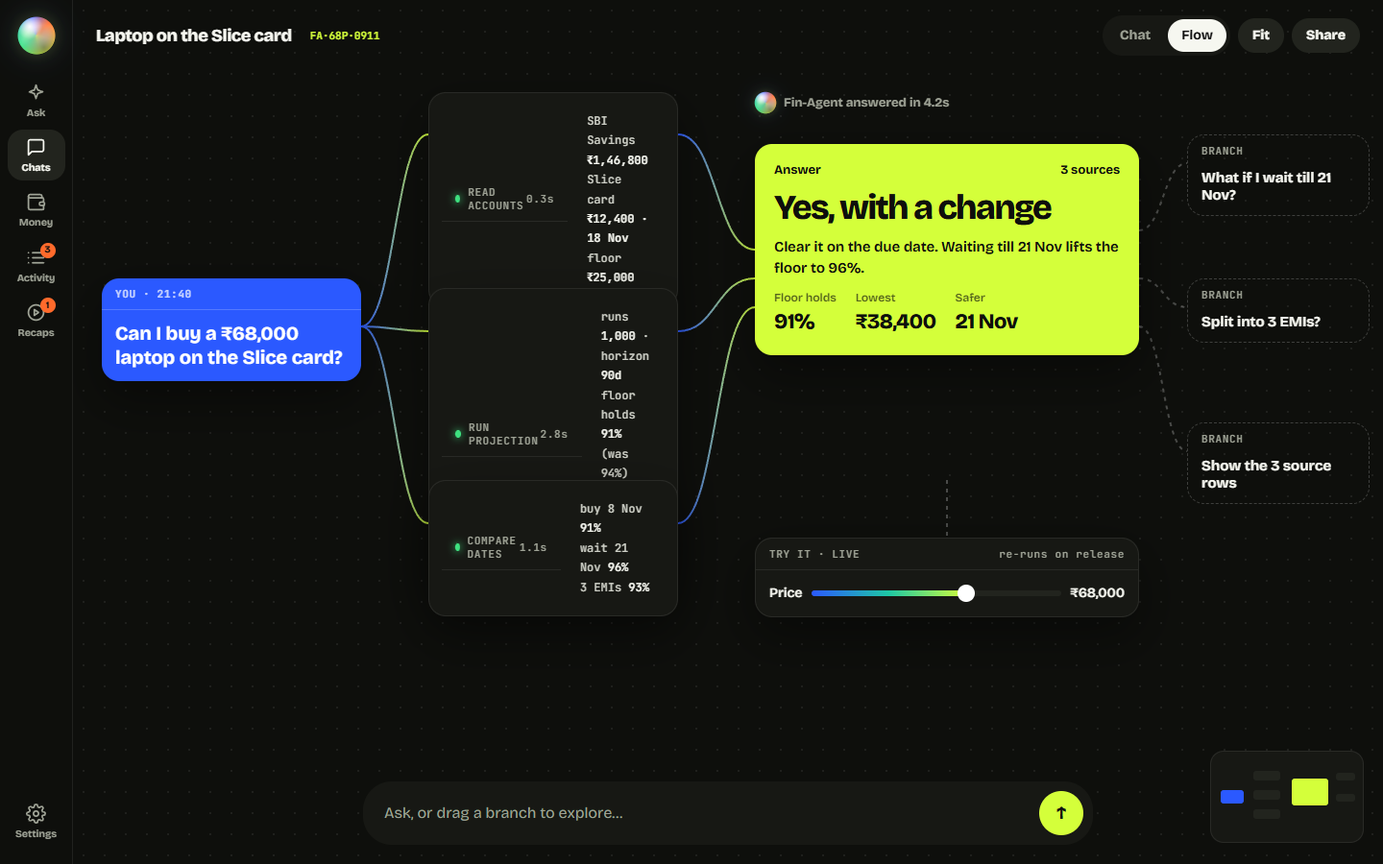
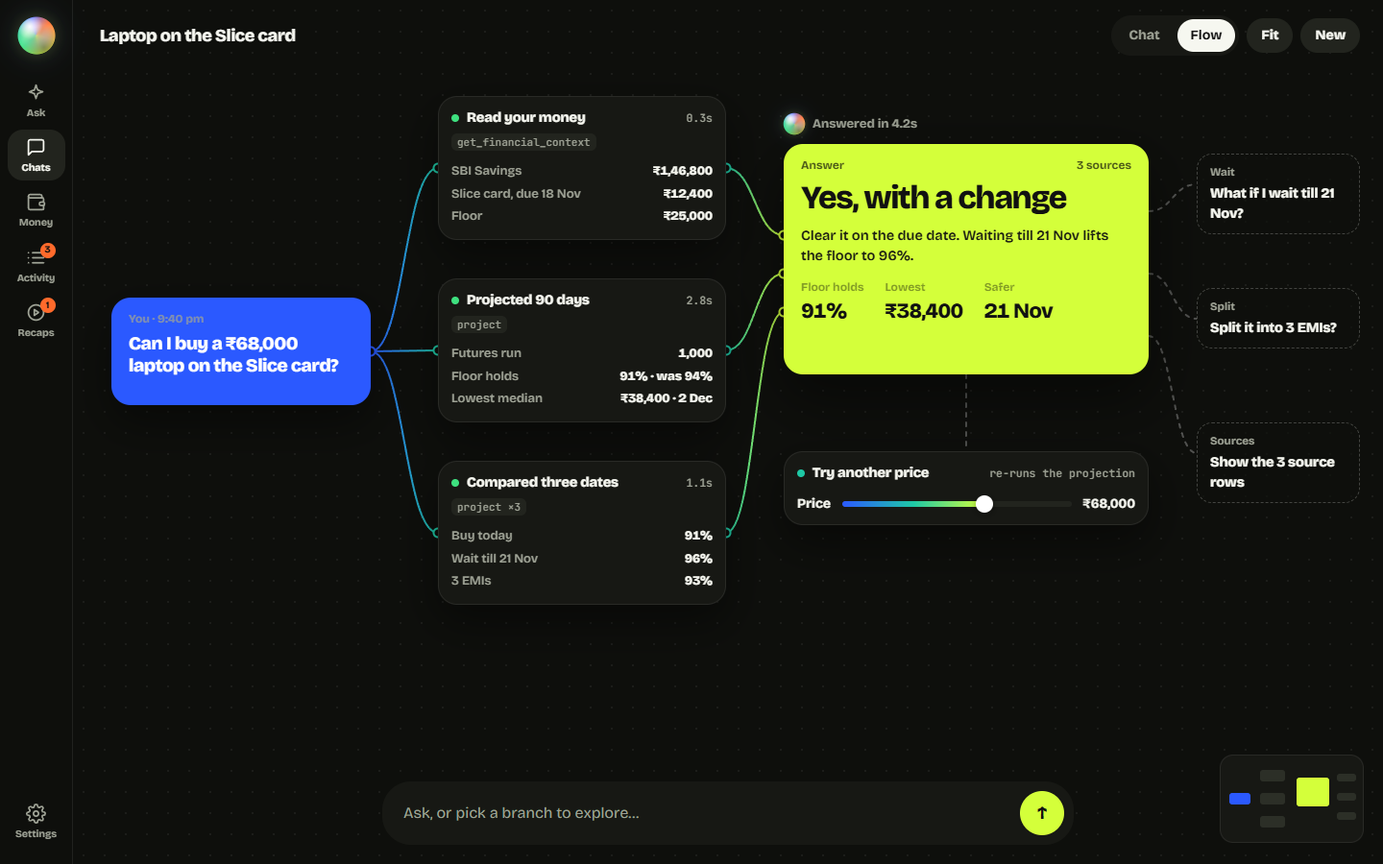
docs(design): redraw Flow mode with readable steps and a whole conversation

diff --git a/.impeccable/mocks/final/03-flow.html b/.impeccable/mocks/final/03-flow.html
@@ -1,45 +1,77 @@
-<!doctype html><html lang="en"><head><meta charset="utf-8"><title>03 · Flow mode</title><link rel="stylesheet" href="shell.css">
+<!doctype html><html lang="en"><head><meta charset="utf-8"><title>03 · Flow mode</title><link rel="stylesheet" href="shell.css"><link rel="stylesheet" href="flow.css">
 <style>
-main{position:relative;background:radial-gradient(rgba(255,255,255,.07) 1px,transparent 1.2px) 0 0/22px 22px;overflow:hidden}
-.bar{position:absolute;top:16px;left:24px;right:24px;display:flex;align-items:center;gap:10px;z-index:2}
-.bar b{font-size:18px;font-weight:800;letter-spacing:-.02em}
-.bar .r{margin-left:auto;display:flex;gap:8px;align-items:center}
-svg.w{position:absolute;inset:0}
-.node{position:absolute;background:var(--s);border:1px solid var(--line);border-radius:18px;overflow:hidden;box-shadow:0 20px 50px rgba(0,0,0,.4)}
-.node .h{display:flex;align-items:center;padding:9px 14px;font:600 11px "JetBrains Mono";letter-spacing:.06em;color:var(--sub);border-bottom:1px solid var(--line)}
-.node .h span{margin-left:auto}
-.node .b{padding:12px 14px;font:500 12px/1.7 "JetBrains Mono";color:#cfd1c8}.node .b b{color:var(--t);font-weight:600}
-.tool .h::before{content:"";width:8px;height:8px;border-radius:50%;background:var(--grn);margin-right:8px;box-shadow:0 0 8px var(--grn)}
-.q{left:30px;top:290px;width:270px;background:var(--cob);border:0}.q .h{color:rgba(255,255,255,.75);border-color:rgba(255,255,255,.2)}.q .b{font:700 20px/1.25 "Bricolage Grotesque";color:#fff}
-.n1{left:370px;top:96px;width:260px}.n2{left:370px;top:300px;width:260px}.n3{left:370px;top:500px;width:260px}
-.ans{left:710px;top:150px;width:400px;border:0}.ans .verdict{border-radius:0}
-.fu{left:1160px;width:190px;background:transparent;border:1.5px dashed rgba(255,255,255,.2);box-shadow:none}.fu .h{border:0;padding-bottom:0}.fu .b{font:700 15px "Bricolage Grotesque";color:var(--t)}
-.live{left:710px;top:560px;width:400px}.live .b{display:flex;gap:10px;align-items:center;font-family:"Bricolage Grotesque";font-size:14px}
-.sl{flex:1;height:6px;border-radius:99px;background:var(--s2);position:relative}.sl i{position:absolute;left:0;width:62%;top:0;bottom:0;border-radius:99px;background:linear-gradient(90deg,var(--cob),var(--cy),var(--lime))}.sl u{position:absolute;left:62%;top:-6px;width:18px;height:18px;border-radius:50%;background:#fff;margin-left:-9px}
-.agent{left:710px;top:96px;display:flex;align-items:center;gap:8px;position:absolute;font-weight:700;color:var(--sub);font-size:13px}
-.comp{position:absolute;left:50%;transform:translateX(-50%);bottom:20px;width:760px;display:flex;align-items:center;gap:10px;padding:10px 10px 10px 22px}
-.comp p{flex:1;margin:0;font-size:16px}
-.mini{position:absolute;right:20px;bottom:22px;width:160px;height:96px;border-radius:14px;background:var(--s);border:1px solid var(--line)}
-.mini i{position:absolute;border-radius:3px;background:var(--s2)}
+.slider{display:flex;align-items:center;gap:12px;margin-top:12px;font-size:14px;font-weight:700}
+.sl{flex:1;height:6px;border-radius:99px;background:var(--s2);position:relative}
+.sl i{position:absolute;left:0;width:62%;top:0;bottom:0;border-radius:99px;background:linear-gradient(90deg,var(--cob),var(--cy),var(--lime))}
+.sl u{position:absolute;left:62%;top:-6px;width:18px;height:18px;border-radius:50%;background:#fff;margin-left:-9px;box-shadow:0 2px 8px rgba(0,0,0,.4)}
+.agent{position:absolute;left:740px;top:118px;display:flex;align-items:center;gap:8px;font-weight:700;color:var(--sub);font-size:13px;z-index:1}
 </style></head><body data-active="chats"><div class="app"><nav id="rail"></nav>
-<main>
-<div class="bar"><b>Laptop on the Slice card</b><span class="serial">FA·68P·0911</span><span class="r"><span class="tabs"><span>Chat</span><span class="on">Flow</span></span><span class="btn">Fit</span><span class="btn">Share</span></span></div>
-<svg class="w" viewBox="0 0 1364 900" fill="none" stroke-width="2"><defs><linearGradient id="w" x1="0" x2="1"><stop offset="0" stop-color="#2b59ff"/><stop offset="1" stop-color="#d4ff3a"/></linearGradient></defs>
-<path d="M300 340 C335 340 335 140 370 140" stroke="url(#w)"/><path d="M300 340 C335 340 335 345 370 345" stroke="url(#w)"/><path d="M300 340 C335 340 335 545 370 545" stroke="url(#w)"/>
-<path d="M630 140 C670 140 670 260 710 260" stroke="url(#w)"/><path d="M630 345 C670 345 670 290 710 290" stroke="url(#w)"/><path d="M630 545 C670 545 670 320 710 320" stroke="url(#w)"/>
-<g stroke="rgba(255,255,255,.25)" stroke-dasharray="4 5"><path d="M1110 240 C1135 240 1135 170 1160 170"/><path d="M1110 290 C1135 290 1135 320 1160 320"/><path d="M1110 340 C1135 340 1135 470 1160 470"/><path d="M910 500 V560"/></g></svg>
-<div class="node q"><div class="h">YOU · 21:40</div><div class="b">Can I buy a ₹68,000 laptop on the Slice card?</div></div>
-<div class="node tool n1"><div class="h">READ ACCOUNTS<span>0.3s</span></div><div class="b">SBI Savings <b>₹1,46,800</b><br>Slice card <b>₹12,400 · 18 Nov</b><br>floor <b>₹25,000</b></div></div>
-<div class="node tool n2"><div class="h">RUN PROJECTION<span>2.8s</span></div><div class="b">runs <b>1,000</b> · horizon <b>90d</b><br>floor holds <b>91%</b> (was 94%)<br>lowest median <b>₹38,400 · 2 Dec</b></div></div>
-<div class="node tool n3"><div class="h">COMPARE DATES<span>1.1s</span></div><div class="b">buy 8 Nov <b>91%</b><br>wait 21 Nov <b>96%</b><br>3 EMIs <b>93%</b></div></div>
-<div class="agent"><span class="orb" style="--s:22px"><i></i></span>Fin-Agent answered in 4.2s</div>
-<div class="node ans"><div class="verdict"><div style="display:flex;justify-content:space-between;font-weight:700;font-size:13px"><span>Answer</span><span>3 sources</span></div><div class="v">Yes, with a change</div>
-<p style="font-weight:600">Clear it on the due date. Waiting till 21 Nov lifts the floor to 96%.</p>
-<div class="f" style="display:flex;gap:20px;margin-top:12px"><div><small>Floor holds</small><b>91%</b></div><div><small>Lowest</small><b>₹38,400</b></div><div><small>Safer</small><b>21 Nov</b></div></div></div></div>
-<div class="node fu" style="top:140px"><div class="h">BRANCH</div><div class="b">What if I wait till 21 Nov?</div></div>
-<div class="node fu" style="top:290px"><div class="h">BRANCH</div><div class="b">Split into 3 EMIs?</div></div>
-<div class="node fu" style="top:440px"><div class="h">BRANCH</div><div class="b">Show the 3 source rows</div></div>
-<div class="node live"><div class="h">TRY IT · LIVE<span>re-runs on release</span></div><div class="b"><b>Price</b><div class="sl"><i></i><u></u></div><b>₹68,000</b></div></div>
-<div class="comp"><p>Ask, or drag a branch to explore…</p><span class="send" style="margin:0">↑</span></div>
-<div class="mini"><i style="left:10px;top:40px;width:24px;height:14px;background:#2b59ff"></i><i style="left:44px;top:20px;width:28px;height:10px"></i><i style="left:44px;top:40px;width:28px;height:10px"></i><i style="left:44px;top:60px;width:28px;height:10px"></i><i style="left:84px;top:28px;width:38px;height:28px;background:#d4ff3a"></i><i style="left:130px;top:22px;width:20px;height:8px"></i><i style="left:130px;top:44px;width:20px;height:8px"></i></div>
+<main class="flowmain">
+<div class="fbar"><b>Laptop on the Slice card</b><span class="r"><span class="tabs"><span>Chat</span><span class="on">Flow</span></span><span class="btn">Fit</span><span class="btn">New</span></span></div>
+
+<svg class="wires" viewBox="0 0 1364 900">
+  <defs>
+    <linearGradient id="in" gradientUnits="userSpaceOnUse" x1="310" x2="380" y1="0" y2="0"><stop offset="0" stop-color="#2b59ff"/><stop offset="1" stop-color="#1ec8a5"/></linearGradient>
+    <linearGradient id="out" gradientUnits="userSpaceOnUse" x1="680" x2="740" y1="0" y2="0"><stop offset="0" stop-color="#1ec8a5"/><stop offset="1" stop-color="#d4ff3a"/></linearGradient>
+  </defs>
+  <!-- question → steps -->
+  <path class="wire" stroke="url(#in)" d="M310 366 C345 366 345 175 380 175"/>
+  <path class="wire" stroke="url(#in)" d="M310 366 C345 366 345 365 380 365"/>
+  <path class="wire" stroke="url(#in)" d="M310 366 C345 366 345 555 380 555"/>
+  <!-- steps → answer -->
+  <path class="wire" stroke="url(#out)" d="M680 175 C710 175 710 245 740 245"/>
+  <path class="wire" stroke="url(#out)" d="M680 365 C710 365 710 285 740 285"/>
+  <path class="wire" stroke="url(#out)" d="M680 555 C710 555 710 325 740 325"/>
+  <!-- answer → branches, and to the try card -->
+  <g stroke="rgba(255,255,255,.28)" stroke-dasharray="4 6" class="wire">
+    <path d="M1120 220 C1145 220 1145 192 1170 192"/>
+    <path d="M1120 285 C1145 285 1145 332 1170 332"/>
+    <path d="M1120 350 C1145 350 1145 472 1170 472"/>
+    <path d="M930 390 V470"/>
+  </g>
+  <g class="port">
+    <circle cx="310" cy="366" r="4.5" stroke="#2b59ff"/>
+    <circle cx="380" cy="175" r="4.5" stroke="#1ec8a5"/><circle cx="380" cy="365" r="4.5" stroke="#1ec8a5"/><circle cx="380" cy="555" r="4.5" stroke="#1ec8a5"/>
+    <circle cx="680" cy="175" r="4.5" stroke="#1ec8a5"/><circle cx="680" cy="365" r="4.5" stroke="#1ec8a5"/><circle cx="680" cy="555" r="4.5" stroke="#1ec8a5"/>
+    <circle cx="740" cy="245" r="4.5" stroke="#d4ff3a"/><circle cx="740" cy="285" r="4.5" stroke="#d4ff3a"/><circle cx="740" cy="325" r="4.5" stroke="#d4ff3a"/>
+  </g>
+</svg>
+
+<div class="fnode fq" style="left:40px;top:310px;width:270px;height:112px"><span class="k">You · 9:40 pm</span><p>Can I buy a ₹68,000 laptop on the Slice card?</p></div>
+
+<div class="fnode fstep" style="left:380px;top:100px;width:300px;height:150px">
+  <div class="hd"><span class="dot"></span><b>Read your money</b><span class="t">0.3s</span></div>
+  <span class="id">get_financial_context</span>
+  <dl><dt>SBI Savings</dt><dd>₹1,46,800</dd><dt>Slice card, due 18 Nov</dt><dd>₹12,400</dd><dt>Floor</dt><dd>₹25,000</dd></dl>
+</div>
+<div class="fnode fstep" style="left:380px;top:290px;width:300px;height:150px">
+  <div class="hd"><span class="dot"></span><b>Projected 90 days</b><span class="t">2.8s</span></div>
+  <span class="id">project</span>
+  <dl><dt>Futures run</dt><dd>1,000</dd><dt>Floor holds</dt><dd>91% · was 94%</dd><dt>Lowest median</dt><dd>₹38,400 · 2 Dec</dd></dl>
+</div>
+<div class="fnode fstep" style="left:380px;top:480px;width:300px;height:150px">
+  <div class="hd"><span class="dot"></span><b>Compared three dates</b><span class="t">1.1s</span></div>
+  <span class="id">project ×3</span>
+  <dl><dt>Buy today</dt><dd>91%</dd><dt>Wait till 21 Nov</dt><dd>96%</dd><dt>3 EMIs</dt><dd>93%</dd></dl>
+</div>
+
+<div class="agent"><span class="orb" style="--s:22px"><i></i></span>Answered in 4.2s</div>
+<div class="fnode fans verdict" style="left:740px;top:150px;width:380px;height:240px">
+  <div class="k"><span>Answer</span><span>3 sources</span></div>
+  <span class="v">Yes, with a change</span>
+  <p>Clear it on the due date. Waiting till 21 Nov lifts the floor to 96%.</p>
+  <div class="facts"><div><small>Floor holds</small><b>91%</b></div><div><small>Lowest</small><b>₹38,400</b></div><div><small>Safer</small><b>21 Nov</b></div></div>
+</div>
+
+<div class="fbr" style="left:1170px;top:160px;width:170px"><small>Wait</small><b>What if I wait till 21 Nov?</b></div>
+<div class="fbr" style="left:1170px;top:300px;width:170px"><small>Split</small><b>Split it into 3 EMIs?</b></div>
+<div class="fbr" style="left:1170px;top:440px;width:170px"><small>Sources</small><b>Show the 3 source rows</b></div>
+
+<div class="fnode fstep" style="left:740px;top:470px;width:380px">
+  <div class="hd"><span class="dot" style="background:var(--cy)"></span><b>Try another price</b><span class="t">re-runs the projection</span></div>
+  <div class="slider"><span>Price</span><div class="sl"><i></i><u></u></div><span class="num">₹68,000</span></div>
+</div>
+
+<div class="comp fcomp"><p>Ask, or pick a branch to explore…</p><span class="send" style="margin:0">↑</span></div>
+<div class="fmini"><i style="left:10px;top:40px;width:22px;height:12px;background:#2b59ff"></i><i style="left:42px;top:16px;width:26px;height:12px"></i><i style="left:42px;top:40px;width:26px;height:12px"></i><i style="left:42px;top:64px;width:26px;height:12px"></i><i style="left:80px;top:24px;width:34px;height:30px;background:#d4ff3a"></i><i style="left:122px;top:20px;width:20px;height:8px"></i><i style="left:122px;top:40px;width:20px;height:8px"></i><i style="left:122px;top:60px;width:20px;height:8px"></i></div>
 </main></div><script src="shell.js"></script></body></html>

diff --git a/.impeccable/mocks/final/index.html b/.impeccable/mocks/final/index.html
@@ -5,4 +5,4 @@ h1{font-size:44px;letter-spacing:-.04em;margin:0}p.l{color:#9fa396;max-width:70c
 .g{display:grid;grid-template-columns:repeat(auto-fill,minmax(420px,1fr));gap:18px}.g.p{grid-template-columns:repeat(auto-fill,minmax(220px,1fr))}
 a{color:inherit;text-decoration:none;background:#171814;border-radius:18px;overflow:hidden;display:block}a:hover{outline:2px solid #d4ff3a}
 img{width:100%;display:block}span{display:block;padding:10px 14px;font-weight:600}span b{color:#d4ff3a;margin-right:6px}</style></head>
-<body><h1>Fin-Agent · final mocks</h1><p class="l">The agent is the product; money is what it works on. One system on every page: the iridescent orb, lime for actions and verdicts, cobalt for your voice, Bricolage Grotesque. Demo persona data only. Click any screen for the live page.</p><h2>The agent</h2><div class="g"><a href="01-home.html"><img src="shots/01-home.png" alt="Home · the agent greets you, what it noticed" loading="lazy"><span><b>01</b> Home · the agent greets you, what it noticed</span></a><a href="02-thread.html"><img src="shots/02-thread.png" alt="Conversation · Chat mode" loading="lazy"><span><b>02</b> Conversation · Chat mode</span></a><a href="03-flow.html"><img src="shots/03-flow.png" alt="Conversation · Flow mode (the agent's work as a graph)" loading="lazy"><span><b>03</b> Conversation · Flow mode (the agent's work as a graph)</span></a><a href="04-canvas.html"><img src="shots/04-canvas.png" alt="Big answer · Canvas" loading="lazy"><span><b>04</b> Big answer · Canvas</span></a><a href="05-tool.html"><img src="shots/05-tool.png" alt="Big answer · a tool the agent built" loading="lazy"><span><b>05</b> Big answer · a tool the agent built</span></a><a href="18-voice.html"><img src="shots/18-voice.png" alt="Voice mode · parked" loading="lazy"><span><b>18</b> Voice mode · parked</span></a></div><h2>Money</h2><div class="g"><a href="06-money-timeline.html"><img src="shots/06-money-timeline.png" alt="Timeline · past, today, 1,000 futures" loading="lazy"><span><b>06</b> Timeline · past, today, 1,000 futures</span></a><a href="07-money-accounts.html"><img src="shots/07-money-accounts.png" alt="Accounts" loading="lazy"><span><b>07</b> Accounts</span></a><a href="08-money-schedules.html"><img src="shots/08-money-schedules.png" alt="Schedules · bills, income, subscriptions" loading="lazy"><span><b>08</b> Schedules · bills, income, subscriptions</span></a><a href="09-money-goals.html"><img src="shots/09-money-goals.png" alt="Goals" loading="lazy"><span><b>09</b> Goals</span></a><a href="10-money-people.html"><img src="shots/10-money-people.png" alt="People" loading="lazy"><span><b>10</b> People</span></a></div><h2>Activity</h2><div class="g"><a href="11-activity-ledger.html"><img src="shots/11-activity-ledger.png" alt="Ledger · with a movement open" loading="lazy"><span><b>11</b> Ledger · with a movement open</span></a><a href="12-activity-imports.html"><img src="shots/12-activity-imports.png" alt="Imports · statement review" loading="lazy"><span><b>12</b> Imports · statement review</span></a><a href="13-activity-inbox.html"><img src="shots/13-activity-inbox.png" alt="Inbox · reminders, risks, patterns" loading="lazy"><span><b>13</b> Inbox · reminders, risks, patterns</span></a></div><h2>Recaps and settings</h2><div class="g"><a href="14-recaps.html"><img src="shots/14-recaps.png" alt="Recaps · daily, weekly, monthly stories" loading="lazy"><span><b>14</b> Recaps · daily, weekly, monthly stories</span></a><a href="15-settings.html"><img src="shots/15-settings.png" alt="Settings · profile and floor" loading="lazy"><span><b>15</b> Settings · profile and floor</span></a><a href="16-settings-memory.html"><img src="shots/16-settings-memory.png" alt="Settings · agent memory" loading="lazy"><span><b>16</b> Settings · agent memory</span></a><a href="17-signin.html"><img src="shots/17-signin.png" alt="Sign in" loading="lazy"><span><b>17</b> Sign in</span></a></div><h2>Subagent runs · proposed</h2><div class="g"><a href="23-run-canvas.html"><img src="shots/23-run-canvas.png" alt="A · Run in the canvas, live" loading="lazy"><span><b>23</b> A · Run in the canvas, live</span></a><a href="24-run-canvas-stopped.html"><img src="shots/24-run-canvas-stopped.png" alt="A · Run stopped, explained in chat and canvas" loading="lazy"><span><b>24</b> A · Run stopped, explained in chat and canvas</span></a><a href="25-run-page.html"><img src="shots/25-run-page.png" alt="B · Run as a full page, one step in detail" loading="lazy"><span><b>25</b> B · Run as a full page, one step in detail</span></a></div><div class="g p"><a href="26-run-phone-chat.html"><img src="shots/26-run-phone-chat.png" alt="Phone · stopped run in chat" loading="lazy"><span><b>26</b> Phone · stopped run in chat</span></a><a href="27-run-phone-sheet.html"><img src="shots/27-run-phone-sheet.png" alt="Phone · live run sheet" loading="lazy"><span><b>27</b> Phone · live run sheet</span></a></div><h2>First run · A built</h2><div class="g"><a href="28-first-run-home-a.html"><img src="shots/28-first-run-home-a.png" alt="A · One statement, and what it unlocks" loading="lazy"><span><b>28</b> A · One statement, and what it unlocks</span></a><a href="29-first-run-home-b.html"><img src="shots/29-first-run-home-b.png" alt="B · The usual cards, waiting" loading="lazy"><span><b>29</b> B · The usual cards, waiting</span></a><a href="31-recaps-empty.html"><img src="shots/31-recaps-empty.png" alt="Recaps before the first story" loading="lazy"><span><b>31</b> Recaps before the first story</span></a></div><div class="g p"><a href="30-first-run-phone.html"><img src="shots/30-first-run-phone.png" alt="Phone · A, two of three ready" loading="lazy"><span><b>30</b> Phone · A, two of three ready</span></a></div><h2>Phone</h2><div class="g p"><a href="19-phone-home.html"><img src="shots/19-phone-home.png" alt="Home" loading="lazy"><span><b>19</b> Home</span></a><a href="20-phone-thread.html"><img src="shots/20-phone-thread.png" alt="Conversation" loading="lazy"><span><b>20</b> Conversation</span></a><a href="21-phone-money.html"><img src="shots/21-phone-money.png" alt="Money timeline" loading="lazy"><span><b>21</b> Money timeline</span></a><a href="22-phone-recap.html"><img src="shots/22-phone-recap.png" alt="Weekly recap" loading="lazy"><span><b>22</b> Weekly recap</span></a></div></body></html>
+<body><h1>Fin-Agent · final mocks</h1><p class="l">The agent is the product; money is what it works on. One system on every page: the iridescent orb, lime for actions and verdicts, cobalt for your voice, Bricolage Grotesque. Demo persona data only. Click any screen for the live page.</p><h2>The agent</h2><div class="g"><a href="01-home.html"><img src="shots/01-home.png" alt="Home · the agent greets you, what it noticed" loading="lazy"><span><b>01</b> Home · the agent greets you, what it noticed</span></a><a href="02-thread.html"><img src="shots/02-thread.png" alt="Conversation · Chat mode" loading="lazy"><span><b>02</b> Conversation · Chat mode</span></a><a href="03-flow.html"><img src="shots/03-flow.png" alt="Conversation · Flow mode (the agent's work as a graph)" loading="lazy"><span><b>03</b> Conversation · Flow mode (the agent's work as a graph)</span></a><a href="03b-flow-thread.html"><img src="shots/03b-flow-thread.png" alt="Flow · a whole conversation" loading="lazy"><span><b>03b</b> Flow · a whole conversation</span></a><a href="04-canvas.html"><img src="shots/04-canvas.png" alt="Big answer · Canvas" loading="lazy"><span><b>04</b> Big answer · Canvas</span></a><a href="05-tool.html"><img src="shots/05-tool.png" alt="Big answer · a tool the agent built" loading="lazy"><span><b>05</b> Big answer · a tool the agent built</span></a><a href="18-voice.html"><img src="shots/18-voice.png" alt="Voice mode · parked" loading="lazy"><span><b>18</b> Voice mode · parked</span></a></div><h2>Money</h2><div class="g"><a href="06-money-timeline.html"><img src="shots/06-money-timeline.png" alt="Timeline · past, today, 1,000 futures" loading="lazy"><span><b>06</b> Timeline · past, today, 1,000 futures</span></a><a href="07-money-accounts.html"><img src="shots/07-money-accounts.png" alt="Accounts" loading="lazy"><span><b>07</b> Accounts</span></a><a href="08-money-schedules.html"><img src="shots/08-money-schedules.png" alt="Schedules · bills, income, subscriptions" loading="lazy"><span><b>08</b> Schedules · bills, income, subscriptions</span></a><a href="09-money-goals.html"><img src="shots/09-money-goals.png" alt="Goals" loading="lazy"><span><b>09</b> Goals</span></a><a href="10-money-people.html"><img src="shots/10-money-people.png" alt="People" loading="lazy"><span><b>10</b> People</span></a></div><h2>Activity</h2><div class="g"><a href="11-activity-ledger.html"><img src="shots/11-activity-ledger.png" alt="Ledger · with a movement open" loading="lazy"><span><b>11</b> Ledger · with a movement open</span></a><a href="12-activity-imports.html"><img src="shots/12-activity-imports.png" alt="Imports · statement review" loading="lazy"><span><b>12</b> Imports · statement review</span></a><a href="13-activity-inbox.html"><img src="shots/13-activity-inbox.png" alt="Inbox · reminders, risks, patterns" loading="lazy"><span><b>13</b> Inbox · reminders, risks, patterns</span></a></div><h2>Recaps and settings</h2><div class="g"><a href="14-recaps.html"><img src="shots/14-recaps.png" alt="Recaps · daily, weekly, monthly stories" loading="lazy"><span><b>14</b> Recaps · daily, weekly, monthly stories</span></a><a href="15-settings.html"><img src="shots/15-settings.png" alt="Settings · profile and floor" loading="lazy"><span><b>15</b> Settings · profile and floor</span></a><a href="16-settings-memory.html"><img src="shots/16-settings-memory.png" alt="Settings · agent memory" loading="lazy"><span><b>16</b> Settings · agent memory</span></a><a href="17-signin.html"><img src="shots/17-signin.png" alt="Sign in" loading="lazy"><span><b>17</b> Sign in</span></a></div><h2>Subagent runs · proposed</h2><div class="g"><a href="23-run-canvas.html"><img src="shots/23-run-canvas.png" alt="A · Run in the canvas, live" loading="lazy"><span><b>23</b> A · Run in the canvas, live</span></a><a href="24-run-canvas-stopped.html"><img src="shots/24-run-canvas-stopped.png" alt="A · Run stopped, explained in chat and canvas" loading="lazy"><span><b>24</b> A · Run stopped, explained in chat and canvas</span></a><a href="25-run-page.html"><img src="shots/25-run-page.png" alt="B · Run as a full page, one step in detail" loading="lazy"><span><b>25</b> B · Run as a full page, one step in detail</span></a></div><div class="g p"><a href="26-run-phone-chat.html"><img src="shots/26-run-phone-chat.png" alt="Phone · stopped run in chat" loading="lazy"><span><b>26</b> Phone · stopped run in chat</span></a><a href="27-run-phone-sheet.html"><img src="shots/27-run-phone-sheet.png" alt="Phone · live run sheet" loading="lazy"><span><b>27</b> Phone · live run sheet</span></a></div><h2>First run · A built</h2><div class="g"><a href="28-first-run-home-a.html"><img src="shots/28-first-run-home-a.png" alt="A · One statement, and what it unlocks" loading="lazy"><span><b>28</b> A · One statement, and what it unlocks</span></a><a href="29-first-run-home-b.html"><img src="shots/29-first-run-home-b.png" alt="B · The usual cards, waiting" loading="lazy"><span><b>29</b> B · The usual cards, waiting</span></a><a href="31-recaps-empty.html"><img src="shots/31-recaps-empty.png" alt="Recaps before the first story" loading="lazy"><span><b>31</b> Recaps before the first story</span></a></div><div class="g p"><a href="30-first-run-phone.html"><img src="shots/30-first-run-phone.png" alt="Phone · A, two of three ready" loading="lazy"><span><b>30</b> Phone · A, two of three ready</span></a></div><h2>Phone</h2><div class="g p"><a href="19-phone-home.html"><img src="shots/19-phone-home.png" alt="Home" loading="lazy"><span><b>19</b> Home</span></a><a href="20-phone-thread.html"><img src="shots/20-phone-thread.png" alt="Conversation" loading="lazy"><span><b>20</b> Conversation</span></a><a href="21-phone-money.html"><img src="shots/21-phone-money.png" alt="Money timeline" loading="lazy"><span><b>21</b> Money timeline</span></a><a href="22-phone-recap.html"><img src="shots/22-phone-recap.png" alt="Weekly recap" loading="lazy"><span><b>22</b> Weekly recap</span></a></div></body></html>

diff --git a/.impeccable/mocks/final/03b-flow-thread.html b/.impeccable/mocks/final/03b-flow-thread.html
@@ -1,0 +1,72 @@
+<!doctype html><html lang="en"><head><meta charset="utf-8"><title>03b · Flow mode · a whole conversation</title><link rel="stylesheet" href="shell.css"><link rel="stylesheet" href="flow.css">
+<style>
+.file{display:flex;align-items:center;gap:6px;margin-top:8px;font-size:12px;font-weight:700;opacity:.85}
+.file svg{width:14px;height:14px}
+.fstep .act{display:inline-flex;margin-top:10px}
+.fstep .act .btn{font-size:12.5px;padding:6px 12px}
+.direct{position:absolute;z-index:1;font:500 11.5px "JetBrains Mono";color:var(--sub);background:var(--bg);padding:2px 8px;border-radius:99px;box-shadow:inset 0 0 0 1px var(--line)}
+dd.warn{color:var(--org)}
+</style></head><body data-active="chats"><div class="app"><nav id="rail"></nav>
+<main class="flowmain">
+<div class="fbar"><b>Hey</b><span class="r"><span class="tabs"><span>Chat</span><span class="on">Flow</span></span><span class="btn">Fit</span><span class="btn">New</span></span></div>
+
+<svg class="wires" viewBox="0 0 1364 900">
+  <defs>
+    <linearGradient id="in" gradientUnits="userSpaceOnUse" x1="340" x2="400" y1="0" y2="0"><stop offset="0" stop-color="#2b59ff"/><stop offset="1" stop-color="#1ec8a5"/></linearGradient>
+    <linearGradient id="out" gradientUnits="userSpaceOnUse" x1="720" x2="800" y1="0" y2="0"><stop offset="0" stop-color="#1ec8a5"/><stop offset="1" stop-color="#d4ff3a"/></linearGradient>
+    <linearGradient id="direct" gradientUnits="userSpaceOnUse" x1="340" x2="800" y1="0" y2="0"><stop offset="0" stop-color="#2b59ff"/><stop offset="1" stop-color="#d4ff3a"/></linearGradient>
+  </defs>
+  <!-- turn 1: no tools, the question wires straight to the answer -->
+  <path class="wire" stroke="url(#direct)" d="M340 128 L800 128"/>
+  <!-- turn 2 -->
+  <path class="wire" stroke="url(#in)" d="M340 318 C370 318 370 318 400 318"/>
+  <path class="wire" stroke="url(#out)" d="M720 318 C760 318 760 318 800 318"/>
+  <!-- turn 3 -->
+  <path class="wire" stroke="url(#in)" d="M340 560 C370 560 370 560 400 560"/>
+  <path class="wire" stroke="url(#out)" d="M720 560 C760 560 760 560 800 560"/>
+  <!-- the conversation continues: each answer leads to the next question -->
+  <g stroke="rgba(255,255,255,.16)" stroke-dasharray="3 6" class="wire"><path d="M190 168 V262"/><path d="M190 372 V500"/></g>
+  <g class="port">
+    <circle cx="340" cy="128" r="4.5" stroke="#2b59ff"/><circle cx="800" cy="128" r="4.5" stroke="#d4ff3a"/>
+    <circle cx="340" cy="318" r="4.5" stroke="#2b59ff"/><circle cx="400" cy="318" r="4.5" stroke="#1ec8a5"/><circle cx="720" cy="318" r="4.5" stroke="#1ec8a5"/><circle cx="800" cy="318" r="4.5" stroke="#d4ff3a"/>
+    <circle cx="340" cy="560" r="4.5" stroke="#2b59ff"/><circle cx="400" cy="560" r="4.5" stroke="#1ec8a5"/><circle cx="720" cy="560" r="4.5" stroke="#1ec8a5"/><circle cx="800" cy="560" r="4.5" stroke="#d4ff3a"/>
+  </g>
+</svg>
+
+<!-- Turn 1 -->
+<div class="fnode fq" style="left:40px;top:90px;width:300px;height:78px"><span class="k">You · 2:10 pm</span><p>Hey</p></div>
+<span class="direct" style="left:500px;top:118px">answered from the conversation</span>
+<div class="fnode fans" style="left:800px;top:76px;width:500px">
+  <div class="k"><span class="orb" style="--s:16px"><i></i></span>Answer<span>0.9s</span></div>
+  <p>Hey! Your ledger is empty right now: no accounts, income, bills, or goals. Let’s start with two things: <b>your bank accounts</b>, and <b>your income</b>.</p>
+</div>
+
+<!-- Turn 2 -->
+<div class="fnode fq" style="left:40px;top:262px;width:300px;height:110px"><span class="k">You · 2:11 pm</span><p>I have got an SBI savings bank account.</p></div>
+<div class="fnode fstep" style="left:400px;top:244px;width:320px">
+  <div class="hd"><span class="dot"></span><b>Added an account</b><span class="t">0.2s</span></div>
+  <span class="id">update_setup</span>
+  <dl><dt>Account</dt><dd>SBI Savings</dd><dt>Kind</dt><dd>Bank</dd><dt>Balance</dt><dd class="warn">Not known yet</dd></dl>
+</div>
+<div class="fnode fans" style="left:800px;top:252px;width:500px">
+  <div class="k"><span class="orb" style="--s:16px"><i></i></span>Answer<span>1.4s</span></div>
+  <p>Added <b>SBI Savings</b>. It has no balance yet, so I can’t project anything from it. What’s in it right now, roughly, and as of when?</p>
+  <span class="more">Open in chat</span>
+</div>
+
+<!-- Turn 3 -->
+<div class="fnode fq" style="left:40px;top:500px;width:300px;height:120px"><span class="k">You · 2:14 pm</span><p>Here is my one year SBI statement.</p><span class="file"><span data-icon="file"></span>AccountStatement_Asha.pdf</span></div>
+<div class="fnode fstep warn" style="left:400px;top:470px;width:320px">
+  <div class="hd"><span class="dot"></span><b>Reading your statement</b><span class="t">4m 20s</span></div>
+  <span class="id">parser · background</span>
+  <dl><dt>Status</dt><dd class="warn">Paused, out of steps</dd><dt>Steps</dt><dd>120 of 120</dd><dt>Your ledger</dt><dd>Nothing written</dd></dl>
+  <span class="act"><span class="btn">Open run</span></span>
+</div>
+<div class="fnode fans" style="left:800px;top:494px;width:500px">
+  <div class="k"><span class="orb" style="--s:16px"><i></i></span>Answer<span>2.1s</span></div>
+  <p>The statement parser paused: it used all 120 of its steps. <b>Nothing reached your ledger.</b> Press Continue on the run card to give it another 120.</p>
+  <span class="more">Open in chat</span>
+</div>
+
+<div class="comp fcomp"><p>Ask anything…</p><span class="send" style="margin:0">↑</span></div>
+</main></div><script src="shell.js"></script></body></html>

diff --git a/.impeccable/mocks/final/flow.css b/.impeccable/mocks/final/flow.css
@@ -1,0 +1,54 @@
+/* Flow mode mocks (03, 03b). Class names avoid the shared kit's `.tool` composer pill. */
+main.flowmain{position:relative;background:radial-gradient(rgba(255,255,255,.06) 1px,transparent 1.2px) 0 0/22px 22px;overflow:hidden}
+.fbar{position:absolute;top:16px;left:28px;right:24px;display:flex;align-items:center;gap:10px;z-index:3}
+.fbar b{font-size:18px;font-weight:800;letter-spacing:-.02em}
+.fbar .r{margin-left:auto;display:flex;gap:8px;align-items:center}
+svg.wires{position:absolute;inset:0;pointer-events:none;z-index:0}
+.wire{fill:none;stroke-width:2;stroke-linecap:round}
+.port{fill:var(--bg);stroke-width:2}
+.fnode{position:absolute;z-index:1;border-radius:20px;box-shadow:0 18px 44px rgba(0,0,0,.45)}
+
+/* The question */
+.fq{background:var(--cob);color:#fff;padding:14px 18px 16px}
+.fq .k{display:block;font-size:12px;font-weight:700;opacity:.75}
+.fq p{margin-top:6px;font-size:19px;font-weight:800;letter-spacing:-.02em;line-height:1.2}
+
+/* A step: one tool the agent ran, titled by what it did, with what it found. */
+.fstep{background:var(--s);box-shadow:0 18px 44px rgba(0,0,0,.45),inset 0 0 0 1px var(--line);padding:12px 14px 12px}
+.fstep .hd{display:flex;align-items:center;gap:8px}
+.fstep .dot{width:8px;height:8px;border-radius:50%;background:var(--grn);flex:none}
+.fstep.run .dot{background:var(--lime);box-shadow:0 0 0 4px rgba(212,255,58,.15)}
+.fstep.warn .dot{background:var(--org)}
+.fstep .hd b{font-size:14.5px;font-weight:800;letter-spacing:-.01em}
+.fstep .hd .t{margin-left:auto;font:500 11.5px "JetBrains Mono";color:var(--sub)}
+.fstep .id{display:inline-block;margin-top:6px;font:500 11px "JetBrains Mono";color:var(--sub);background:var(--s2);border-radius:6px;padding:2px 6px}
+.fstep dl{margin-top:10px;display:grid;grid-template-columns:auto 1fr;gap:5px 14px;font-size:13px}
+.fstep dt{color:var(--sub);font-weight:600}
+.fstep dd{text-align:right;font-weight:800;font-variant-numeric:tabular-nums;white-space:nowrap}
+.fstep .say{margin-top:8px;font-size:13px;color:#c9ccbf;line-height:1.4}
+
+/* The answer */
+.fans{background:var(--s);box-shadow:0 18px 44px rgba(0,0,0,.45),inset 0 0 0 1px var(--line);padding:14px 18px 16px}
+.fans .k{display:flex;align-items:center;gap:8px;font-size:12px;font-weight:700;color:var(--sub)}
+.fans .k span:last-child{margin-left:auto}
+.fans p{margin-top:8px;font-size:14.5px;line-height:1.45;color:#e8eadf}
+.fans p b{color:var(--t)}
+.fans .more{margin-top:10px;font-size:13px;font-weight:700;color:var(--lime)}
+.fans.verdict{background:var(--lime);color:#111;box-shadow:0 24px 60px rgba(0,0,0,.5)}
+.fans.verdict .k{color:rgba(17,18,9,.7)}
+.fans.verdict .v{display:block;margin-top:8px;font-size:34px;font-weight:800;letter-spacing:-.04em;line-height:1}
+.fans.verdict p{color:#1b1d12;font-weight:600}
+.fans.verdict .facts{display:flex;gap:22px;margin-top:14px}
+.fans.verdict .facts small{display:block;font-size:12px;font-weight:700;color:rgba(17,18,9,.65)}
+.fans.verdict .facts b{font-size:22px;font-weight:800;letter-spacing:-.03em;font-variant-numeric:tabular-nums}
+
+/* Branches: the answer's own alternatives, each a question you can send. */
+.fbr{position:absolute;z-index:1;border-radius:16px;padding:11px 14px;outline:1.5px dashed rgba(255,255,255,.22);outline-offset:-1.5px;background:rgba(14,15,12,.7)}
+.fbr small{display:block;font-size:11.5px;font-weight:700;color:var(--sub)}
+.fbr b{display:block;margin-top:3px;font-size:14.5px;font-weight:800;letter-spacing:-.01em}
+
+.fturn-time{position:absolute;z-index:1;font:500 11.5px "JetBrains Mono";color:var(--sub)}
+.fcomp{position:absolute;left:50%;transform:translateX(-50%);bottom:20px;width:720px;display:flex;align-items:center;gap:10px;padding:10px 10px 10px 22px;z-index:3}
+.fcomp p{flex:1;margin:0;font-size:16px}
+.fmini{position:absolute;right:20px;bottom:22px;width:150px;height:92px;border-radius:14px;background:var(--s);box-shadow:inset 0 0 0 1px var(--line);z-index:3}
+.fmini i{position:absolute;border-radius:3px;background:var(--s3)}
